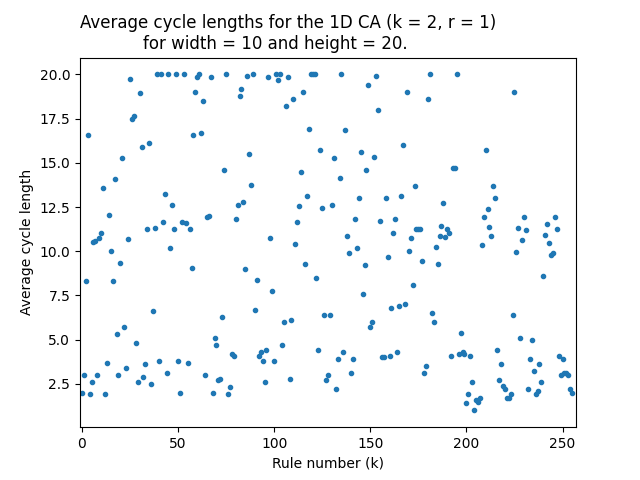
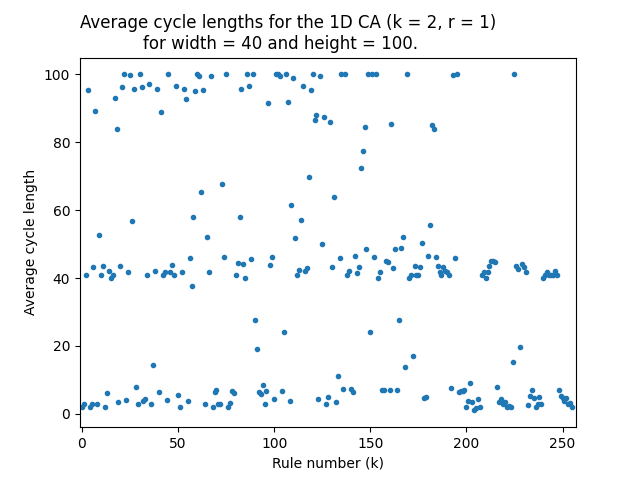
graph

diff --git a/test.py b/test.py
@@ -89,6 +89,6 @@ class CASimTest:
 
 
 if __name__ == "__main__":
-    sim_test = CASimTest(width=10, height=20, k=2, r=1, init_row_prob=0.4)
-    sim_test.sweep_rule(N=10)
+    sim_test = CASimTest(width=40, height=100, k=2, r=1, init_row_prob=0.4)
+    sim_test.sweep_rule(N=25)
     sim_test.plot(sim_test.average_cycle_lengths)
